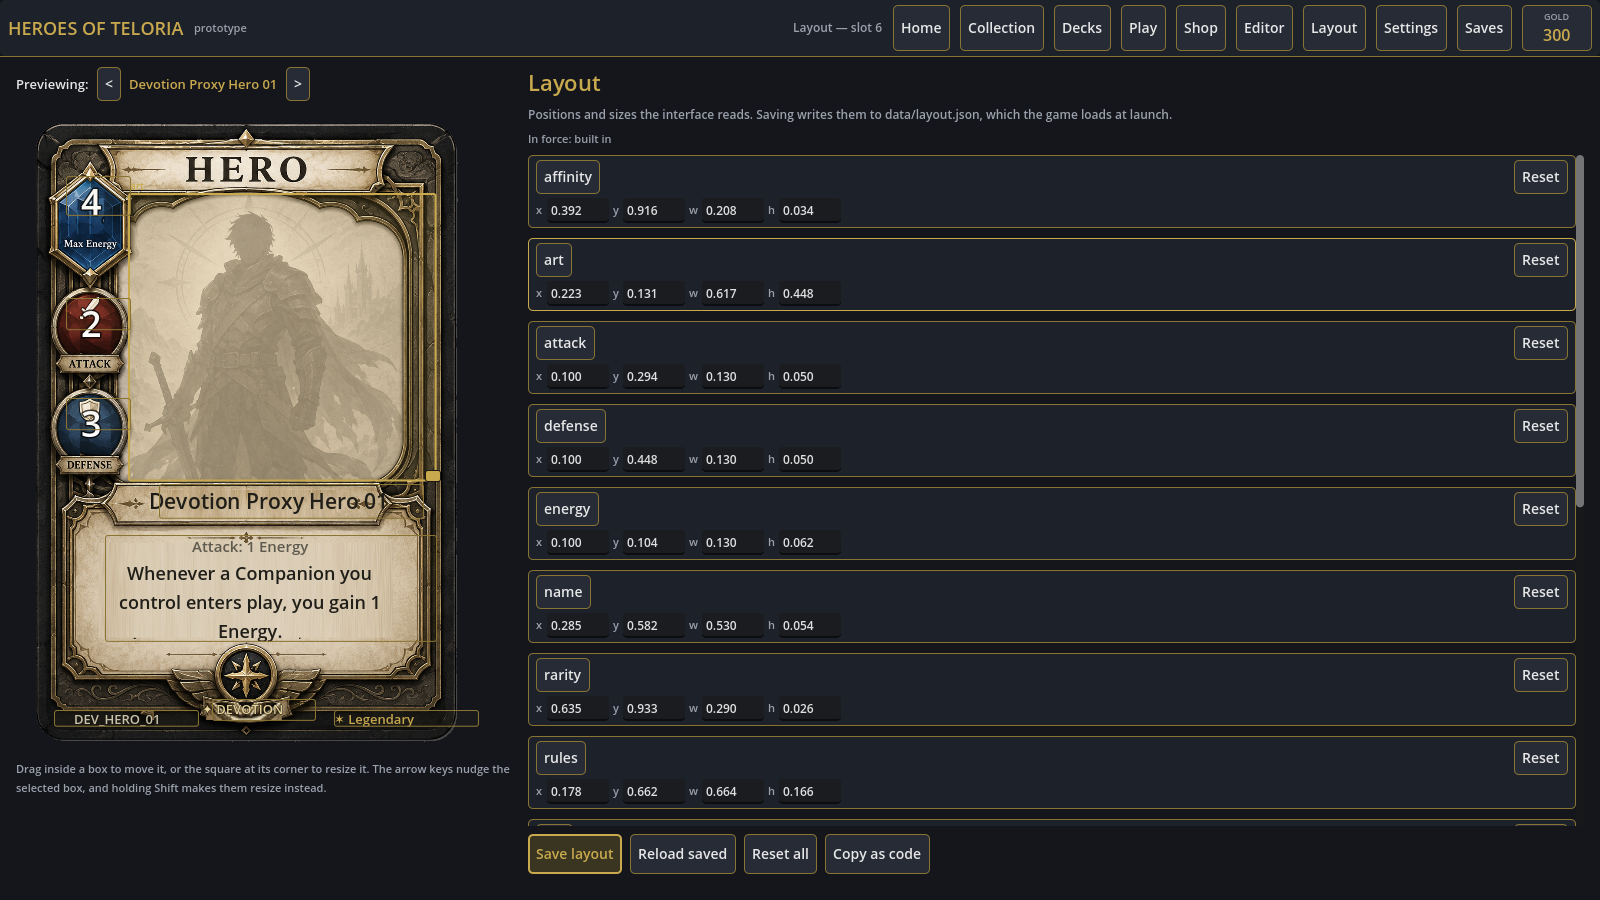
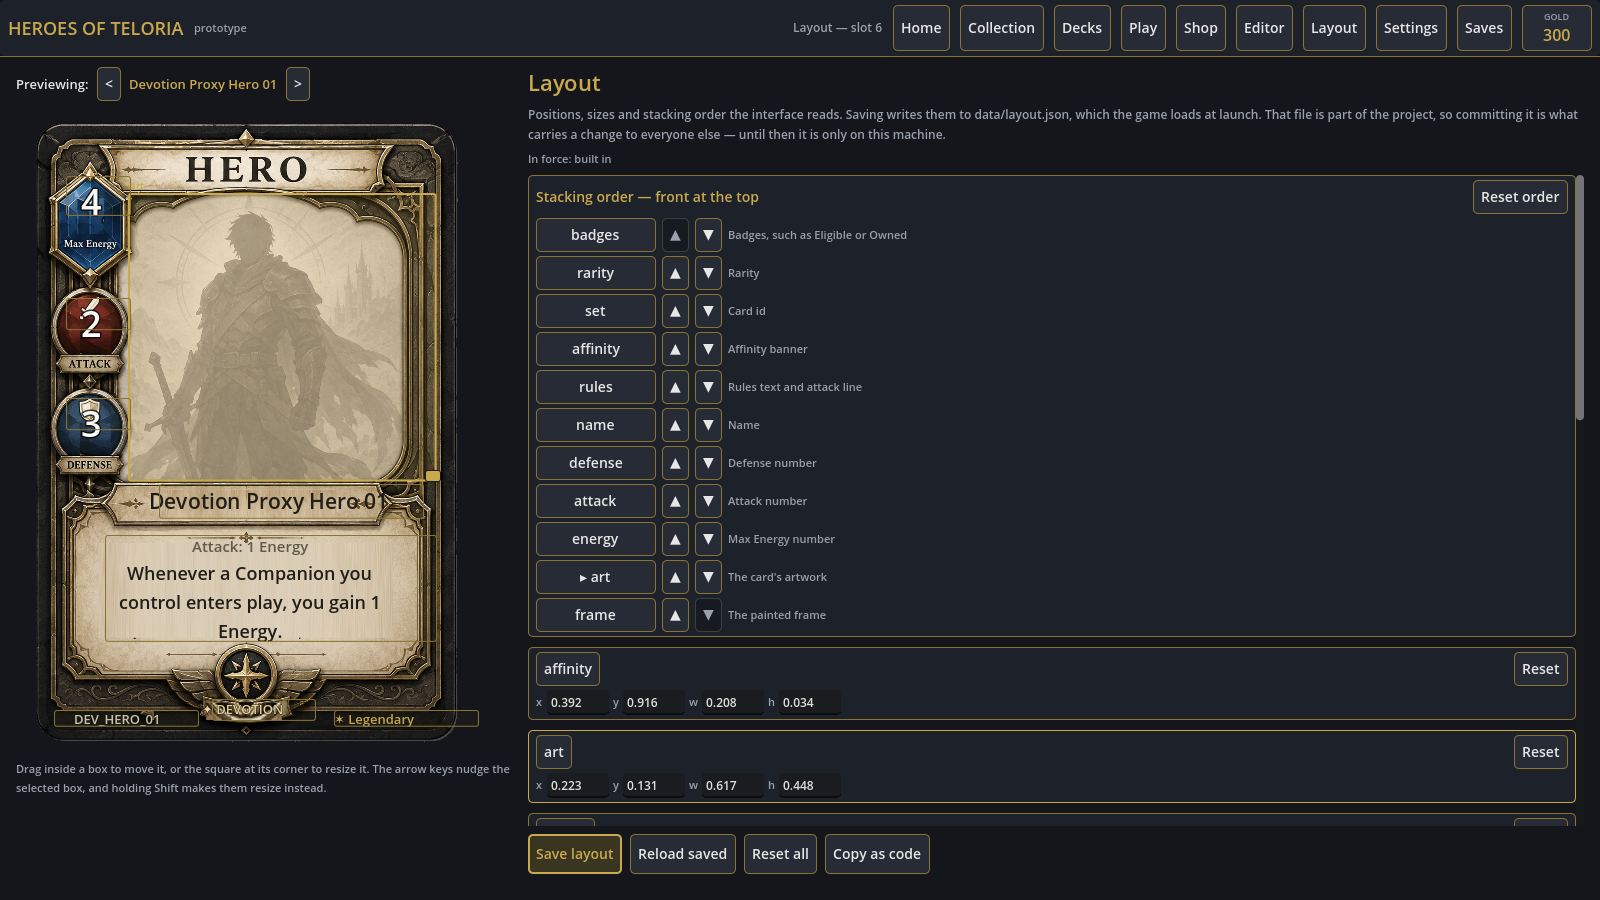
Give the layout a stacking order, and say where a layout change goes
A card is now drawn back to front in the order the layout gives, and the
painted frame is one of the pieces rather than a backdrop underneath them. Each
piece gets a host of its own, because a PanelContainer fits every child to its
content rect and would otherwise overwrite the anchors a piece is placed by.

The Layout screen lists the pieces front to back with the frame among them, and
moves any of them forward or back. Artwork sent behind the frame is drawn
behind it and shows only through what the frame leaves open; a number can be
brought in front of a banner the same way. The order saves and loads with the
rest of the layout and resets on its own.

The screen is also clearer about what saving means. data/layout.json is part of
the project, so saving from a source build changes the project on that machine
straight away, but committing that file is what carries the change to anyone
else. An exported build cannot write to itself and saves beside the save files
instead, applying only on that machine. The status line says which happened
rather than leaving it to be assumed.

Claude-Session: https://claude.ai/code/session_01FqpqEYH3RyaCaGf7y5ZbA3

diff --git a/README.md b/README.md
@@ -105,18 +105,33 @@ never change an outcome.
 
 ## Adjusting the layout
 
-Positions and sizes the interface reads — where each piece sits on a Hero card,
-the type sizes on a card face, the heights of the board's zones — are not
-constants in the screens. They live in `src/ui/layout.gd` as named values, and
-the **Layout** screen edits them against a live card: drag a box to move it,
-drag its corner to resize, or type exact fractions.
+Positions, sizes and stacking order the interface reads — where each piece sits
+on a Hero card, the type sizes on a card face, the heights of the board's zones
+— are not constants in the screens. They live in `src/ui/layout.gd` as named
+values, and the **Layout** screen edits them against a live card: drag a box to
+move it, drag its corner to resize, nudge with the arrow keys, or type exact
+fractions.
 
-Saving writes `data/layout.json`, which the game loads at launch. Run from
-source, that file is repository content, so a layout adjusted in game is a real
-change to the game and can be committed. An exported build cannot write to
-itself, so it saves beside the save files instead and says so. "Copy as code"
-puts the values on the clipboard as GDScript, for folding back into the
-defaults once a layout has settled.
+A card is drawn back to front in the order the layout gives, and the painted
+frame is one of the pieces rather than a backdrop. The stacking list moves any
+piece forward or back, so artwork can be sent behind the frame, a number
+brought in front of a banner, and so on.
+
+### Where a layout change goes
+
+Saving writes `data/layout.json`, which the game loads at launch. That file is
+part of the project, so:
+
+* run from source, saving changes the project on that machine straight away;
+* **committing that file is what carries the change to anyone else.** A layout
+  saved and not committed stays local;
+* an exported build cannot write to itself, so it saves beside the save files
+  instead and applies only on that machine. The screen says which happened.
+
+"Copy as code" puts the values on the clipboard as GDScript, for folding back
+into the defaults in `src/ui/layout.gd` once a layout has settled. No
+`data/layout.json` is committed at the moment, so the values the game ships
+with are the defaults in that file.
 
 ## Running the tests
 

diff --git a/docs/screens/README.md b/docs/screens/README.md
@@ -27,6 +27,7 @@ xvfb-run -a godot --path . --resolution 1440x900 --script tools/ui_drive.gd
 | `17_sorbet.png` | Sorbet on the Hero frame, beside Parfait and a proxy |
 | `18_card_type.png` | Sorbet's Card Type choice, mid-resolution |
 | `19_layout.png` | The Layout screen, with a card's pieces boxed and editable |
+| `20_layers.png` | The same card with its artwork in front of the frame, then behind it |
 
 The battle screen's own artwork lives in `assets/board/`. `board_full.png` is
 the painted board; `tools/slice_board.gd` cuts the plates the screen uses out
